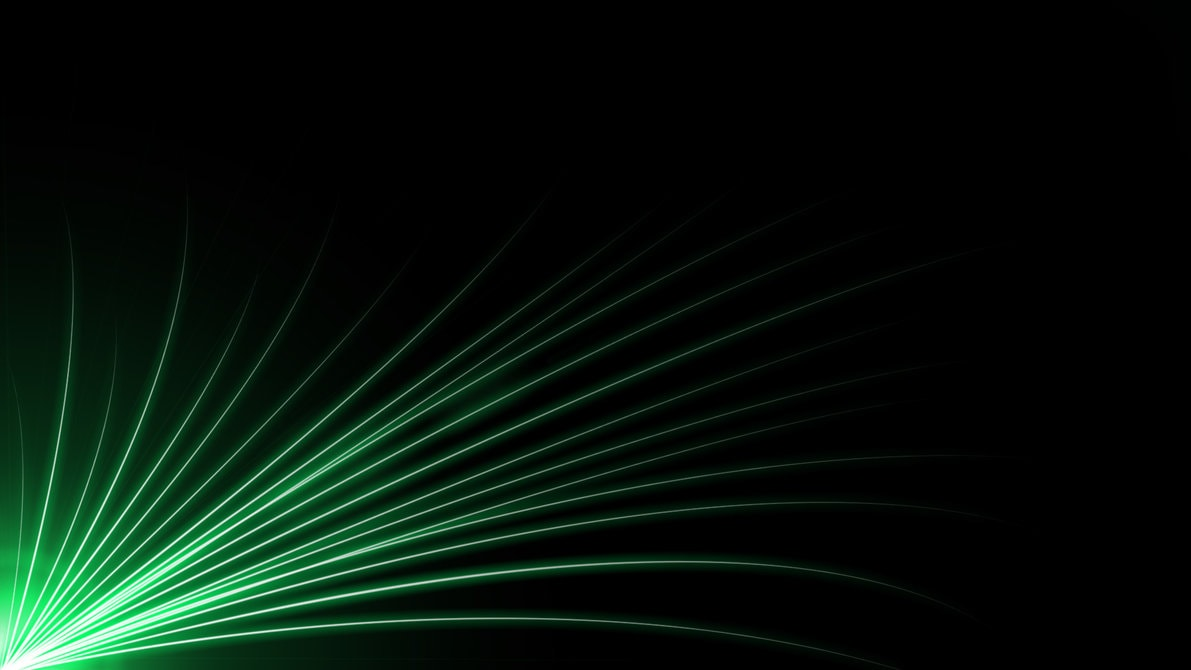
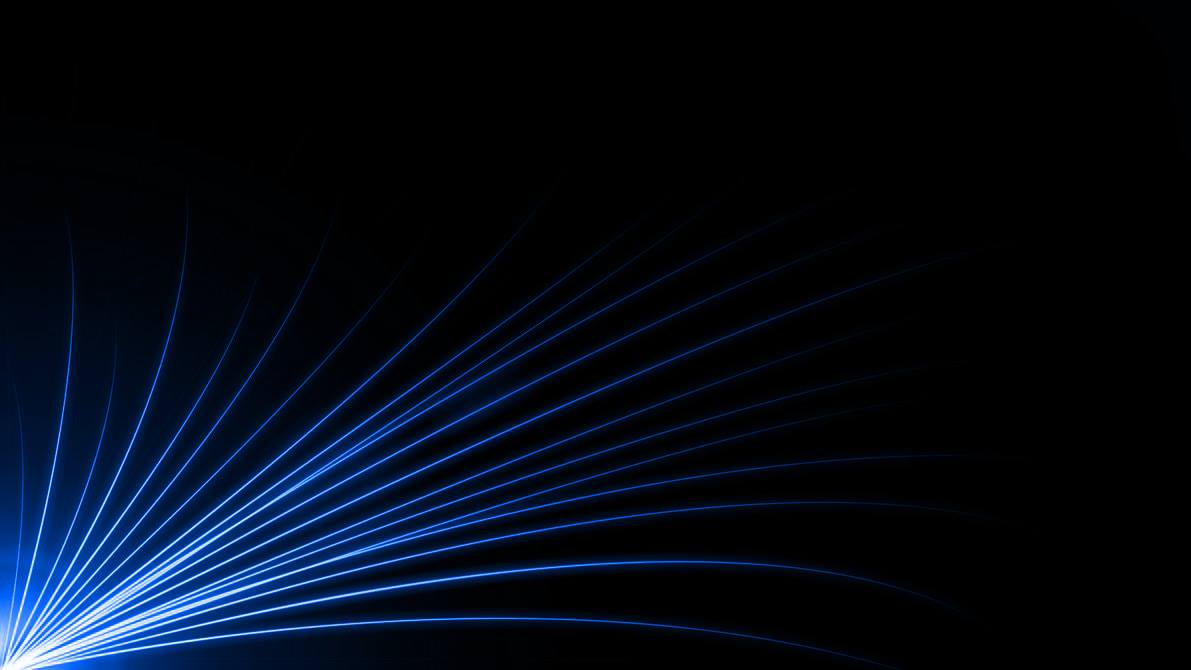
Updated bg

diff --git a/css/style.css b/css/style.css
@@ -17,7 +17,7 @@ body {
   left: 0%;
   bottom: 0%;
   right: 0%;
-  background: url(../img/bg.jpg) top center no-repeat;
+  background: url(../img/bg.jpg) no-repeat center center;
   z-index: -1;
 }
 
@@ -220,7 +220,6 @@ figure.team-member.hover figcaption:before {
 }
 #MatModal-container.seeModal {
     top:10%;
-    background-color: #002933;
     -webkit-box-shadow: 0 3px 8px 2px rgba(0,0,0,0.2);
     box-shadow: 0 3px 8px 2px rgba(0,0,0,0.2);
 }
